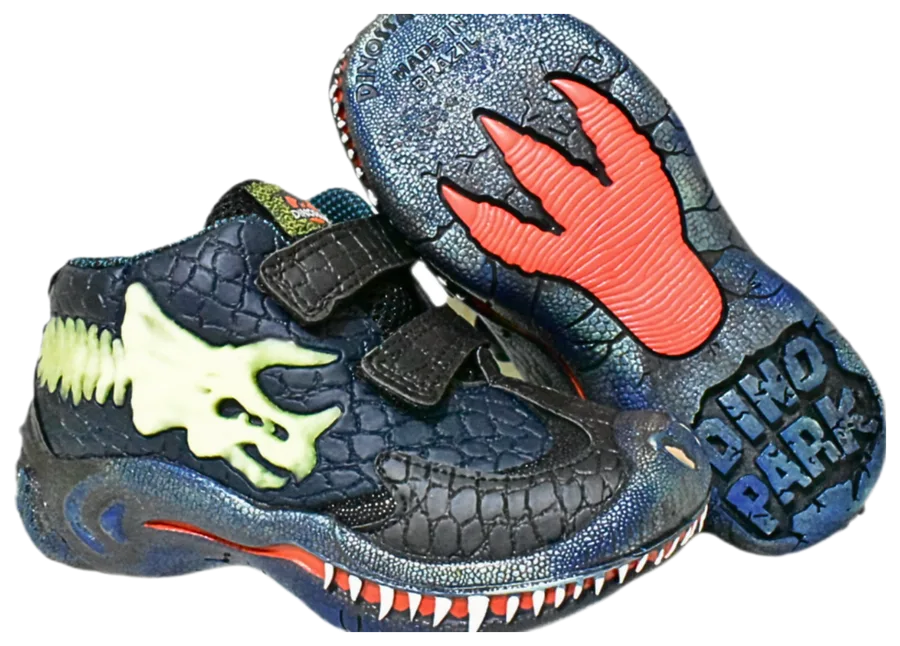
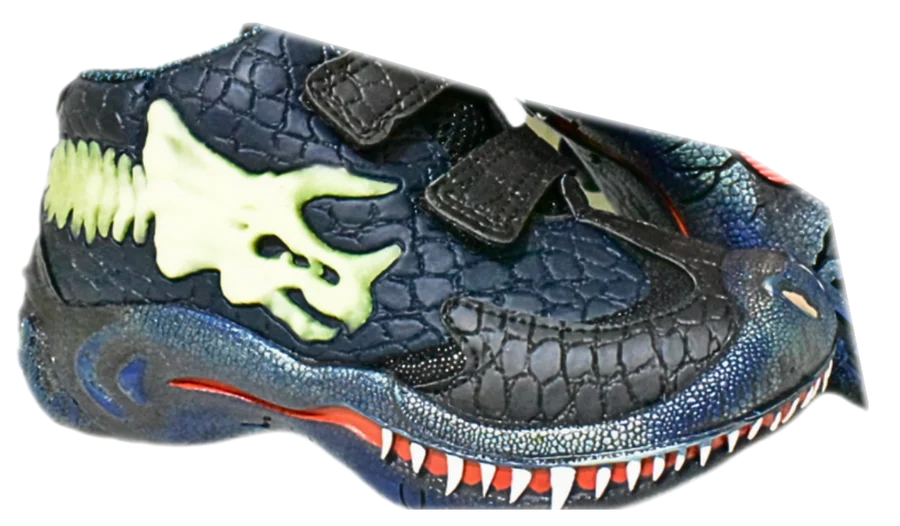
El catalogo real ya se ve en la tienda, con precio a consultar
Los 133 modelos del PDF pasan a estar publicados. Como la importadora
todavia no definio precios, quedan en 0 y la tienda no muestra "Bs. 0":
la ficha y la tarjeta dicen "Precio a consultar" y el boton lleva a
WhatsApp con el modelo y la talla ya escritos, asi nadie puede armar un
pedido de Bs. 0. Cuando haya precios se cargan en el script y las fichas
vuelven solas al carrito de siempre.

Ocho modelos quedan como destacados de la portada, uno por seccion, para
que "Productos destacados" deje de caer al catalogo de demostracion.

Ademas se rehicieron 26 fotos que todavia mostraban el par completo: 24
recortadas al tenis parado y las dos de la pagina 41 que habian quedado
cortadas de mas, sacadas de nuevo del PDF y con sombra suave debajo.

diff --git a/src/components/ProductCard.tsx b/src/components/ProductCard.tsx
@@ -4,13 +4,15 @@ import Link from "next/link";
 import { useState } from "react";
 import { useCart } from "./CartProvider";
 import ProductThumb, { productTint } from "./ProductThumb";
-import { formatBs } from "@/lib/format";
+import { formatBs, PRECIO_A_CONSULTAR, sinPrecio } from "@/lib/format";
+import { linkWhatsApp } from "@/lib/tienda";
 import type { ProductDTO } from "@/lib/types";
 
 export default function ProductCard({ product }: { product: ProductDTO }) {
   const { add } = useCart();
   const [size, setSize] = useState<number | null>(product.sizes[0] ?? null);
   const agotado = product.stock <= 0;
+  const aConsultar = sinPrecio(product.price);
 
   const enOferta =
     product.compareAtPrice !== null && product.compareAtPrice > product.price;
@@ -66,16 +68,22 @@ export default function ProductCard({ product }: { product: ProductDTO }) {
           </Link>
         </h3>
 
-        <p className="flex items-baseline gap-2">
-          <span className="font-display text-xl font-bold text-lava-600">
-            {formatBs(product.price)}
-          </span>
-          {enOferta && (
-            <span className="text-sm font-semibold text-stone-warm-500 line-through">
-              {formatBs(product.compareAtPrice!)}
+        {aConsultar ? (
+          <p className="font-display text-base font-bold text-jungle-700">
+            {PRECIO_A_CONSULTAR}
+          </p>
+        ) : (
+          <p className="flex items-baseline gap-2">
+            <span className="font-display text-xl font-bold text-lava-600">
+              {formatBs(product.price)}
             </span>
-          )}
-        </p>
+            {enOferta && (
+              <span className="text-sm font-semibold text-stone-warm-500 line-through">
+                {formatBs(product.compareAtPrice!)}
+              </span>
+            )}
+          </p>
+        )}
 
         {product.sizes.length > 0 && (
           <fieldset>
@@ -112,14 +120,29 @@ export default function ProductCard({ product }: { product: ProductDTO }) {
           </fieldset>
         )}
 
-        <button
-          type="button"
-          disabled={agotado || size === null}
-          onClick={() => size !== null && add(product, size)}
-          className="mt-auto flex w-full items-center justify-center gap-2 rounded-full bg-jungle-600 py-2.5 font-display text-sm font-bold text-white transition hover:bg-jungle-500 disabled:cursor-not-allowed disabled:opacity-45"
-        >
-          {agotado ? "Sin stock" : "Agregar al carrito"}
-        </button>
+        {aConsultar ? (
+          <a
+            href={linkWhatsApp(
+              `Hola, quiero saber el precio del modelo ${product.name}${
+                size !== null ? ` en talla ${size}` : ""
+              }.`,
+            )}
+            target="_blank"
+            rel="noopener noreferrer"
+            className="mt-auto flex w-full items-center justify-center gap-2 rounded-full bg-jungle-600 py-2.5 font-display text-sm font-bold text-white transition hover:bg-jungle-500"
+          >
+            Consultar precio
+          </a>
+        ) : (
+          <button
+            type="button"
+            disabled={agotado || size === null}
+            onClick={() => size !== null && add(product, size)}
+            className="mt-auto flex w-full items-center justify-center gap-2 rounded-full bg-jungle-600 py-2.5 font-display text-sm font-bold text-white transition hover:bg-jungle-500 disabled:cursor-not-allowed disabled:opacity-45"
+          >
+            {agotado ? "Sin stock" : "Agregar al carrito"}
+          </button>
+        )}
       </div>
     </article>
   );

diff --git a/src/components/AddToCartPanel.tsx b/src/components/AddToCartPanel.tsx
@@ -2,7 +2,8 @@
 
 import { useState } from "react";
 import { useCart } from "./CartProvider";
-import { formatBs } from "@/lib/format";
+import { formatBs, sinPrecio } from "@/lib/format";
+import { linkWhatsApp } from "@/lib/tienda";
 import type { ProductDTO } from "@/lib/types";
 
 /** Selector de talla + cantidad de la ficha de producto. */
@@ -11,6 +12,7 @@ export default function AddToCartPanel({ product }: { product: ProductDTO }) {
   const [size, setSize] = useState<number | null>(product.sizes[0] ?? null);
   const [qty, setQty] = useState(1);
   const agotado = product.stock <= 0;
+  const aConsultar = sinPrecio(product.price);
 
   return (
     <div className="space-y-5">
@@ -61,21 +63,39 @@ export default function AddToCartPanel({ product }: { product: ProductDTO }) {
           </button>
         </div>
 
-        <button
-          type="button"
-          disabled={agotado || size === null}
-          onClick={() => size !== null && add(product, size, qty)}
-          className="flex flex-1 items-center justify-center gap-2 rounded-full bg-jungle-600 px-6 py-3 font-display text-base font-bold text-white transition hover:bg-jungle-500 disabled:cursor-not-allowed disabled:opacity-45"
-        >
-          <span aria-hidden>🛒</span>
-          {agotado ? "SIN STOCK" : `AGREGAR · ${formatBs(product.price * qty)}`}
-        </button>
+        {aConsultar ? (
+          <a
+            href={linkWhatsApp(
+              `Hola, quiero saber el precio de ${qty}× ${product.name}${
+                size !== null ? ` en talla ${size}` : ""
+              }.`,
+            )}
+            target="_blank"
+            rel="noopener noreferrer"
+            className="flex flex-1 items-center justify-center gap-2 rounded-full bg-jungle-600 px-6 py-3 font-display text-base font-bold text-white transition hover:bg-jungle-500"
+          >
+            <span aria-hidden>💬</span>
+            CONSULTAR PRECIO
+          </a>
+        ) : (
+          <button
+            type="button"
+            disabled={agotado || size === null}
+            onClick={() => size !== null && add(product, size, qty)}
+            className="flex flex-1 items-center justify-center gap-2 rounded-full bg-jungle-600 px-6 py-3 font-display text-base font-bold text-white transition hover:bg-jungle-500 disabled:cursor-not-allowed disabled:opacity-45"
+          >
+            <span aria-hidden>🛒</span>
+            {agotado ? "SIN STOCK" : `AGREGAR · ${formatBs(product.price * qty)}`}
+          </button>
+        )}
       </div>
 
       <p className="text-sm font-semibold text-jungle-900/70">
         {agotado
           ? "Este modelo se agotó. Escríbenos por WhatsApp para avisarte cuando vuelva."
-          : `Quedan ${product.stock} pares disponibles.`}
+          : aConsultar
+            ? "Escríbenos por WhatsApp y te pasamos el precio de este modelo al instante."
+            : `Quedan ${product.stock} pares disponibles.`}
       </p>
     </div>
   );

diff --git a/scripts/importar-dinos.ts b/scripts/importar-dinos.ts
@@ -19,9 +19,10 @@ import * as schema from "../src/db/schema";
  * por `slug`). Los datos están en `catalogo-dinos.json`, junto a este
  * archivo, y las fotos ya recortadas en `public/productos/dino/`.
  *
- * PARA PUBLICARLOS: el PDF no trae precios, así que entran ocultos. Pon el
- * precio de cada sección acá abajo, cambia `PUBLICAR` a true y vuelve a
- * correr el script: los que tengan precio pasan a verse en la tienda.
+ * PRECIOS: el PDF no los trae, así que todos entran en 0 y la tienda los
+ * muestra como "Precio a consultar" (botón de WhatsApp en vez de carrito).
+ * Cuando la importadora los defina, se ponen acá abajo y se vuelve a correr
+ * el script; ahí las fichas pasan solas a mostrar el precio y el carrito.
  */
 
 /** Precio en Bs. de cada sección. 0 = todavía sin precio. */
@@ -36,7 +37,19 @@ const PRECIOS: Record<string, number> = {
 };
 
 /** Con `false` los productos quedan cargados pero sin aparecer en la tienda. */
-const PUBLICAR = false;
+const PUBLICAR = true;
+
+/** Los que salen en "LOS MÁS RUGIENTES" de la portada: uno por sección. */
+const DESTACADOS = new Set([
+  "primeros-pasos-azul-plateado",
+  "primeros-pasos-plateado-rosa",
+  "primeros-pasos-oro",
+  "dino-clasico-cafe",
+  "dino-luces-azul-rojo-blanco",
+  "dino-3d-led-verde",
+  "dientes-3d-led-dorado",
+  "colegial-blanco",
+]);
 
 /** Los 8 productos inventados con los que se armó la tienda. */
 const DEMOS = [
@@ -80,8 +93,9 @@ async function main() {
 
   let publicados = 0;
   for (const m of modelos) {
+    // Sin precio igual se publican: la ficha invita a consultarlo por WhatsApp.
     const precio = PRECIOS[m.seccion] ?? 0;
-    const activo = PUBLICAR && precio > 0;
+    const activo = PUBLICAR;
     if (activo) publicados++;
     const valores = {
       name: m.nombre,
@@ -93,6 +107,7 @@ async function main() {
       color: m.color,
       stock: m.stock,
       isActive: activo,
+      isFeatured: DESTACADOS.has(m.slug),
       updatedAt: new Date(),
     };
     await db

diff --git a/src/app/(tienda)/productos/[slug]/page.tsx b/src/app/(tienda)/productos/[slug]/page.tsx
@@ -5,7 +5,7 @@ import AddToCartPanel from "@/components/AddToCartPanel";
 import FeaturedProducts from "@/components/FeaturedProducts";
 import ProductThumb, { productTint } from "@/components/ProductThumb";
 import { getProductBySlug, getProducts } from "@/lib/data";
-import { formatBs } from "@/lib/format";
+import { formatBs, PRECIO_A_CONSULTAR, sinPrecio } from "@/lib/format";
 
 export const revalidate = 120;
 
@@ -81,16 +81,22 @@ export default async function ProductoPage({ params }: Props) {
             {product.name}
           </h1>
 
-          <p className="mt-3 flex items-baseline gap-3">
-            <span className="font-display text-4xl font-bold text-lava-600">
-              {formatBs(product.price)}
-            </span>
-            {enOferta && (
-              <span className="text-lg font-semibold text-stone-warm-500 line-through">
-                {formatBs(product.compareAtPrice!)}
+          {sinPrecio(product.price) ? (
+            <p className="mt-3 font-display text-2xl font-bold text-jungle-700">
+              {PRECIO_A_CONSULTAR}
+            </p>
+          ) : (
+            <p className="mt-3 flex items-baseline gap-3">
+              <span className="font-display text-4xl font-bold text-lava-600">
+                {formatBs(product.price)}
               </span>
-            )}
-          </p>
+              {enOferta && (
+                <span className="text-lg font-semibold text-stone-warm-500 line-through">
+                  {formatBs(product.compareAtPrice!)}
+                </span>
+              )}
+            </p>
+          )}
 
           {product.description && (
             <p className="mt-4 text-base font-semibold leading-relaxed text-jungle-900/80">

diff --git a/src/lib/format.ts b/src/lib/format.ts
@@ -14,3 +14,13 @@ export const COSTO_ENVIO = 15;
 export function calcularEnvio(subtotal: number): number {
   return subtotal >= ENVIO_GRATIS_DESDE ? 0 : COSTO_ENVIO;
 }
+
+/**
+ * Un modelo recién cargado todavía no tiene precio en la base (queda en 0).
+ * En la tienda nunca se muestra "Bs. 0": se invita a consultar por WhatsApp.
+ */
+export const PRECIO_A_CONSULTAR = "Precio a consultar";
+
+export function sinPrecio(price: number): boolean {
+  return !(price > 0);
+}
